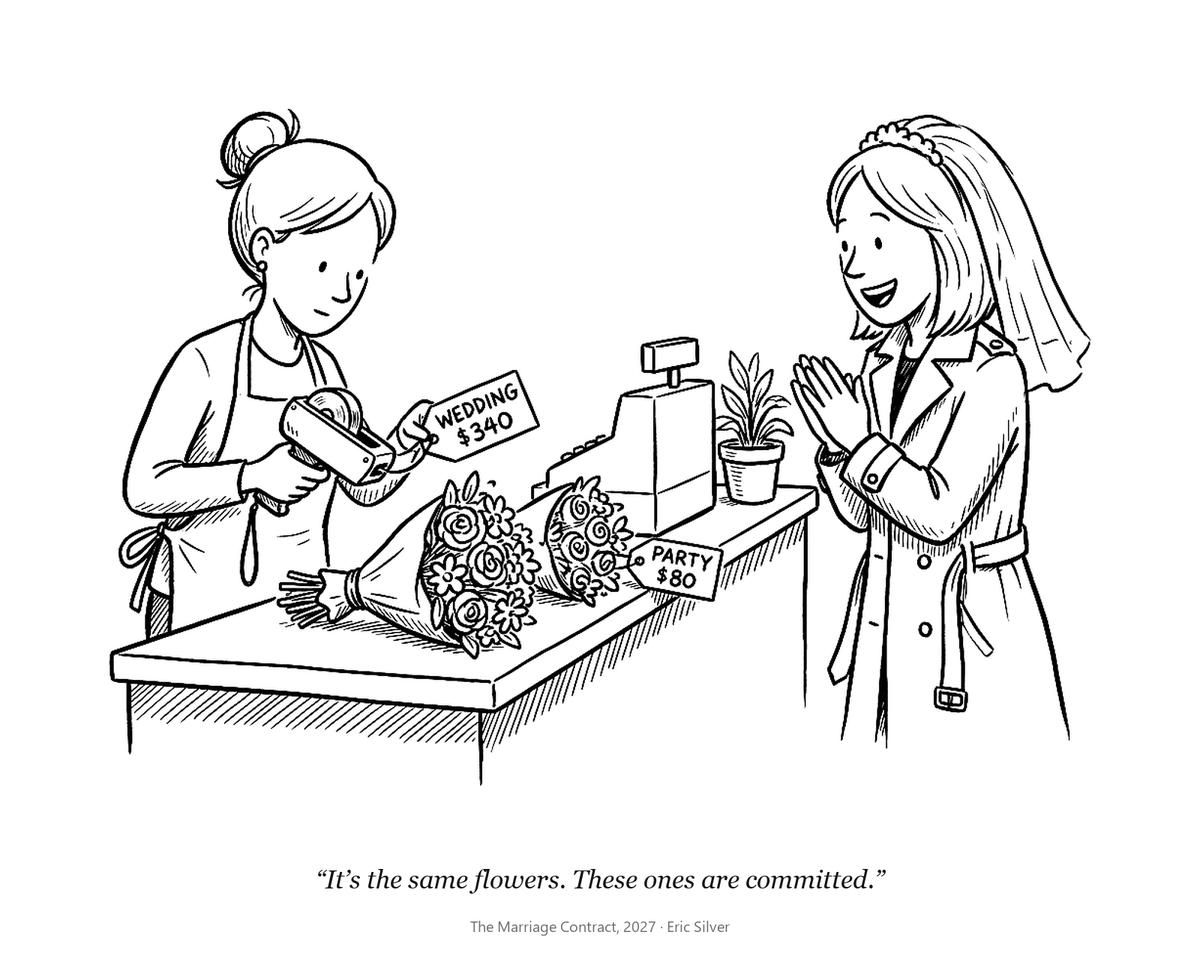
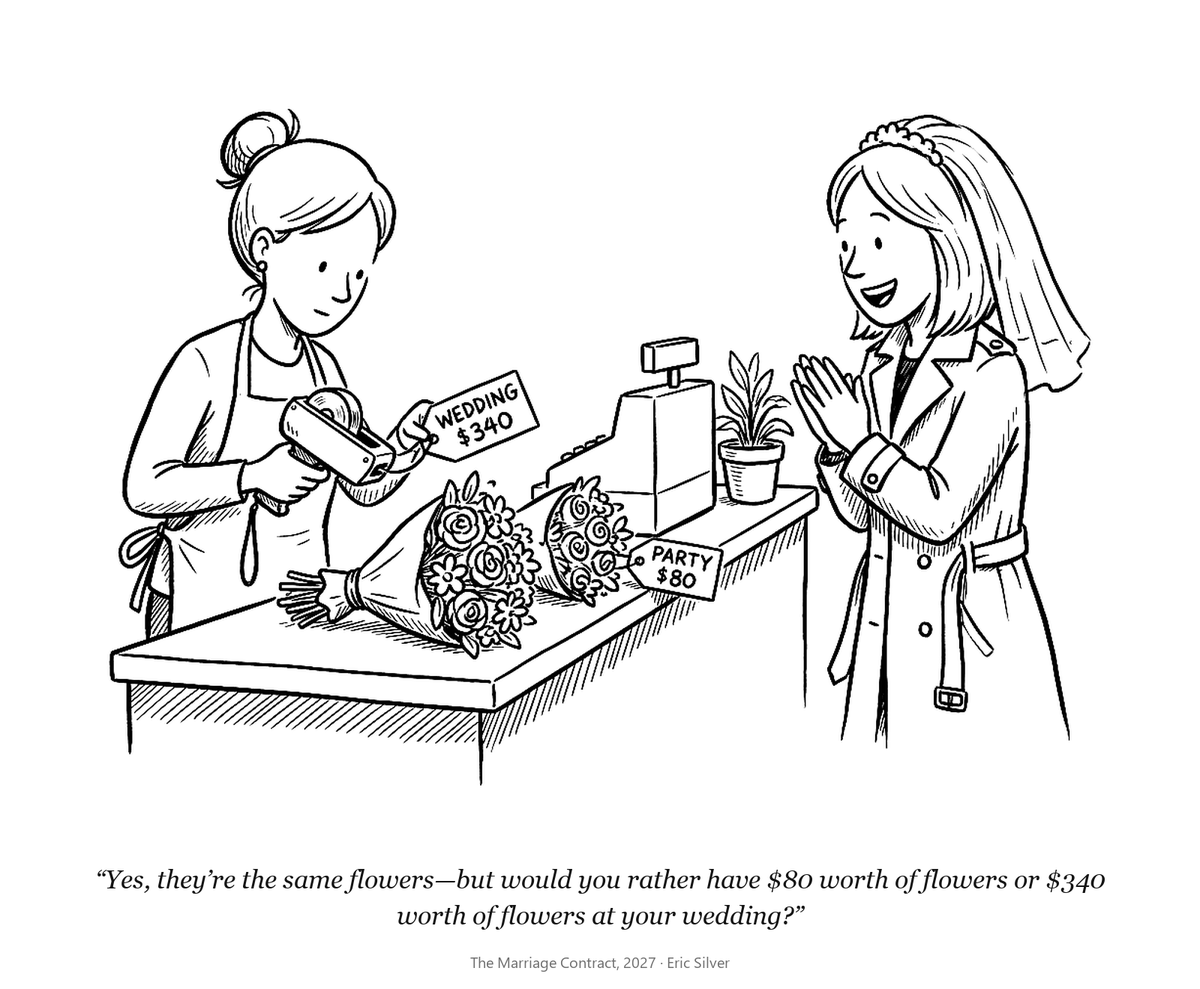
Price-gun cartoon: new caption

Changed region(s): [[0.0925, 0.0913, 0.925, 0.7912], [0.0925, 0.8825, 0.925, 0.9433]]

diff --git a/cartoons/index.html b/cartoons/index.html
@@ -34,7 +34,7 @@
 <main id="main">
 <header class="page-head on-navy"><div class="fine" aria-hidden="true"></div><div class="container page-head__in"><div class="page-head__text"><h1>The cartoons</h1><p class="sub">Every cartoon in <em>The Marriage Contract, 2027</em></p></div></div></header><div class="container page-grid"><div class="page-body">
 <p>The book has a cartoon in nearly every chapter, because the law of marriage is stranger than most people expect. Click one to see it full size, with the chapter it comes from.</p>
-<div class="tiles"><a class="tile" href="ch01-forklift.html"><img src="../assets/cartoons/ch01-forklift-thumb.png" alt="At a county clerk&#x27;s counter, two beaming people sign one sheet of paper. Behind them, where nobody&#x27;s looking, a forklift sets down a pallet of law books stamped Rest of Agreement." loading="lazy"><span>“Sign here. The rest will be along shortly.”</span></a><a class="tile" href="ch02-pricegun.html"><img src="../assets/cartoons/ch02-pricegun-thumb.png" alt="Two identical bouquets lie on a florist&#x27;s counter. One already has a tag: Party, eighty dollars. The florist is using a price gun to make the other&#x27;s tag: Wedding, three hundred and forty dollars. A customer in a veil looks delighted." loading="lazy"><span>“It’s the same flowers. These ones are committed.”</span></a><a class="tile" href="ch02-smokedetector.html"><img src="../assets/cartoons/ch02-smokedetector-thumb.png" alt="On a stepladder in the living room, one spouse is putting up a smoke detector. The other spouse stands below, arms folded, looking hurt." loading="lazy"><span>“So you’ve been thinking about burning the house down.”</span></a><a class="tile" href="ch03-wheel.html"><img src="../assets/cartoons/ch03-wheel-thumb.png" alt="In a courtroom, a robed judge gives a big spin to a game-show wheel. Its wedges say fifty-fifty, sixty-forty, seventy-thirty, whatever feels right, and lunch first. Two nervous spouses and their lawyers watch." loading="lazy"><span>“The court has carefully weighed all eleven statutory factors.”</span></a><a class="tile" href="ch04-hotel.html"><img src="../assets/cartoons/ch04-hotel-thumb.png" alt="A 1930s hotel room. A bored blonde woman and a man in an undershirt play cards on the bed. In the open doorway a photographer and a detective wait politely, one of them looking at a pocket watch." loading="lazy"><span>“We’re a little early. Should we come back and be shocked at nine?”</span></a><a class="tile" href="ch05-dog.html"><img src="../assets/cartoons/ch05-dog-thumb.png" alt="An outdoor wedding with a glowing couple at the altar. Their officiant is a golden retriever in a clerical collar, seated behind an open book. One guest leans over to whisper to another." loading="lazy"><span>“By the powers vested in me by cheap-officiant-certs.com, I now pronounce you man and wife.”</span></a><a class="tile" href="ch06-rewards.html"><img src="../assets/cartoons/ch06-rewards-thumb.png" alt="A slick brochure in the style of an airline loyalty program, titled Marriage Rewards. It lists Silver at nine months, with survivor benefits; Gold at one year, with half their Social Security; and Platinum at ten years, which you keep even after you cancel. Its small print mentions blackout dates and terms that may change without notice, and says to see Article 13." loading="lazy"><span>“Members enjoy priority boarding at the emergency room.”</span></a><a class="tile" href="ch07-registry.html"><img src="../assets/cartoons/ch07-registry-thumb.png" alt="Two counters in a department store. At Wedding Registry, a happy couple scan a toaster, each pushing a separate cart marked His or Hers. Next door, nobody&#x27;s at Divorce Registry except a robed judge holding one long scroll." loading="lazy"><span>“Over here, it all goes on one list.”</span></a><a class="tile" href="ch08-vows.html"><img src="../assets/cartoons/ch08-vows-thumb.png" alt="In a church, an officiant reads vows to a couple. A person in the third pew, wearing a lanyard and a hospital billing polo shirt, writes careful notes on a clipboard." loading="lazy"><span>“… in sickness and in health…” “Could you repeat that last part? For our records.”</span></a><a class="tile" href="ch09-will.html"><img src="../assets/cartoons/ch09-will-thumb.png" alt="Relatives in black sit in a half circle in a lawyer&#x27;s wood-paneled office as the lawyer reads a will. The widow, at one end, looks calm and holds a thin booklet marked Probate Code." loading="lazy"><span>“And to my beloved wife, I leave… whatever the statute was going to give her anyway.”</span></a><a class="tile" href="ch10-funeral.html"><img src="../assets/cartoons/ch10-funeral-thumb.png" alt="Mourners in black stand in a line at a graveside. At the end stands a woman no one knows, wearing a 1990s prom dress and corsage and happily holding a giant novelty check. The others glance at her sideways." loading="lazy"><span>“I’m so sorry for your loss. I haven’t seen him since 1994. Apparently he never updated a thing.”</span></a><a class="tile" href="ch11-saw.html"><img src="../assets/cartoons/ch11-saw-thumb.png" alt="In a living room, a couple have put labels on everything: Mine on a guitar, Mine, not property on a framed diploma, and, through the window, Ask a judge on the house. They&#x27;re calmly cutting the sofa in two with a two-person saw, right through its Ours label. A worried dog wears a sign saying See Chapter 18." loading="lazy"><span>Chapter 11</span></a><a class="tile" href="ch12-inkdrop.html"><img src="../assets/cartoons/ch12-inkdrop-thumb.png" alt="A backyard pool is labeled Joint Account. Above it, a hand squeezes one drop of ink from an eyedropper labeled Inheritance, and the ink is spreading through the water. At the edge, a forensic accountant in a suit and snorkel holds a very small net." loading="lazy"><span>“Don’t worry. We’ll trace it.”</span></a><a class="tile" href="ch13-witness.html"><img src="../assets/cartoons/ch13-witness-thumb.png" alt="In a witness box, a silver-haired CEO in a costly suit raises his hand for the oath. An easel behind him shows his company&#x27;s value shooting almost straight up. He waves at it helplessly." loading="lazy"><span>“Honestly, Your Honor, I mostly just watched.”</span></a><a class="tile" href="ch14-saw.html"><img src="../assets/cartoons/ch14-saw-thumb.png" alt="A detailed dollhouse of a suburban home sits in front of the bench. A robed judge stands above it with a two-handed lumber saw resting at the roofline, and two spouses hold on to opposite ends of the tiny house." loading="lazy"><span>“King Solomon only had to threaten it.”</span></a><a class="tile" href="ch15-oats.html"><img src="../assets/cartoons/ch15-oats-thumb.png" alt="Looking pained, a man writes a check at his kitchen table. It&#x27;s blank but for one word on the bottom line: oats. Out the window, far off in a field, a horse lies dead on its back with its legs in the air." loading="lazy"><span>“Every month. For a horse that isn’t even mine anymore.”</span></a><a class="tile" href="ch16-hedge.html"><img src="../assets/cartoons/ch16-hedge-thumb.png" alt="Nighttime. Behind a suburban hedge, a private investigator in a trench coat points a long-lens camera at a lit window. In the living room, a man and a woman, fully clothed, are playing a board game. Another investigator, holding a thermos, looks at a watch." loading="lazy"><span>“Four hours. She’s up sixty points and nobody’s taken off so much as a cardigan.”</span></a><a class="tile" href="ch17-calendar.html"><img src="../assets/cartoons/ch17-calendar-thumb.png" alt="A giant calendar fills a kitchen wall, thick with arrows, initials, swaps and footnotes. From separate doorways, two parents study it like air-traffic controllers. A child at the table eats cereal, not bothered at all." loading="lazy"><span>“So I have her alternate Thursdays unless it’s a month with five weekends, in which case you owe me a Tuesday from March.”</span></a><a class="tile" href="ch18-dog.html"><img src="../assets/cartoons/ch18-dog-thumb.png" alt="A golden retriever sits up in a witness box with its tongue hanging out. One lawyer hides a squeaky toy behind his back. The other has bacon sticking out of her jacket pocket. The judge looks down over the bench." loading="lazy"><span>“Let the record reflect that the witness went to the one with the bacon.”</span></a><a class="tile" href="ch19-frames.html"><img src="../assets/cartoons/ch19-frames-thumb.png" alt="Over a sofa hang two matching frames. The left one holds a large, ornate, illuminated document labeled Ketubah. The right one is empty, with a little brass plaque saying State&#x27;s version, pending. A couple on the sofa look up at them." loading="lazy"><span>“We keep meaning to find out what goes in the other one.”</span></a><a class="tile" href="ch20-sliding.html"><img src="../assets/cartoons/ch20-sliding-thumb.png" alt="Surrounded by half-unpacked boxes, a young couple sit on a big new sectional sofa. A puppy chews on a box where His stuff has been crossed out and replaced with Our stuff. A lease with two signatures hangs framed on the wall." loading="lazy"><span>“We’re not making any big decisions right now. We just got a dog, a lease, and a sectional.”</span></a><a class="tile" href="ch21-photo.html"><img src="../assets/cartoons/ch21-photo-thumb.png" alt="On church steps, a photographer poses a huge, mismatched group: a beaming older bride and groom in the middle, adult children from both families eyeing each other, grandchildren of all sizes, two ex-spouses at the edges, and a briefcase-carrying lawyer at each end of the back row." loading="lazy"><span>“Bride’s side on the left, groom’s side on the right, and counsel in the back, please.”</span></a><a class="tile" href="ch22-stateline.html"><img src="../assets/cartoons/ch22-stateline-thumb.png" alt="At a state line, a moving van has stopped at something like a toll booth, under a sign saying Welcome to Texas. A uniformed clerk passes a thick ring binder to the couple in the cab and reaches out for the equally thick binder the driver is giving up." loading="lazy"><span>“Old contract, please. Here’s your new one. No, you can’t read it first.”</span></a><a class="tile" href="ch23-customs.html"><img src="../assets/cartoons/ch23-customs-thumb.png" alt="In an airport customs hall, a married couple with luggage carts wait at a desk under a sign asking Anything to declare? An officer dangles their thick ring binder by one corner, as if it were a suspect fish, and squints at it over his glasses. Another officer is rubber-stamping a different binder." loading="lazy"><span>“It’s a marriage contract, sir. We were told it was valid in all fifty states.”</span></a><a class="tile" href="ch24-oneline.html"><img src="../assets/cartoons/ch24-oneline-thumb.png" alt="A bearded man in a suit and four women in plain dresses stand at a county clerk&#x27;s counter. The clerk holds up a marriage license form. It has one line, marked Spouse." loading="lazy"><span>“We have the one line. For the others you’ll have to see a higher authority.”</span></a><a class="tile" href="ch24-zoom.html"><img src="../assets/cartoons/ch24-zoom-thumb.png" alt="From behind, we see a bride and groom in wedding clothes on a sofa, facing a laptop. A county clerk on the screen, with an American flag at his back, reads the ceremony. In the little self-view box, the couple show up as blocky 8-bit figures." loading="lazy"><span>“By the power vested in me by Utah County, I now pronounce your pixels married.”</span></a><a class="tile" href="ch25-shadow.html"><img src="../assets/cartoons/ch25-shadow-thumb.png" alt="Two spouses face each other across a table in a plain conference room, each with a lawyer and papers. A huge shadow of a robed judge with a gavel falls on the wall behind them, though no judge is present. None of them looks at it." loading="lazy"><span>“Shall we begin? It’s just the four of us.”</span></a><a class="tile" href="ch26-piecharts.html"><img src="../assets/cartoons/ch26-piecharts-thumb.png" alt="In a mediator&#x27;s office, two spouses at a small table each hold up a big pie chart on a board. Both are titled Fair, and on each one a slice of about seventy percent points at the person holding it. The tired mediator between them rests their head on one hand." loading="lazy"><span>“Well, the good news is you agree on the label.”</span></a><a class="tile" href="ch27-boat.html"><img src="../assets/cartoons/ch27-boat-thumb.png" alt="In a courtroom, a man in a purposely shabby cardigan pulls out his empty trouser pockets for the judge and looks mournful. Out the window behind him, easy to see in the parking lot, a shiny motor yacht sits on a trailer hooked to his car. Its stern says Liquid Assets." loading="lazy"><span>“As Your Honor can see, I’m barely staying afloat.”</span></a><a class="tile" href="ch28-meter.html"><img src="../assets/cartoons/ch28-meter-thumb.png" alt="In a lawyer&#x27;s office, a client in mid-sentence waves a thick stack of printed text messages. On the desk, turned toward the client, an old mechanical taxi meter runs, the numbers climbing. The lawyer listens kindly." loading="lazy"><span>“Take all the time you need.”</span></a><a class="tile" href="ch28-birthday.html"><img src="../assets/cartoons/ch28-birthday-thumb.png" alt="Breakfast in a kitchen. Coffee mug in hand, a husband leans toward his wife, smiling hopefully. She answers calmly, eyes on her tablet. A wrapped gift waits on the counter behind them." loading="lazy"><span>“What do you want for your birthday?” “A divorce.” “I wasn’t looking to spend that much.”</span></a><a class="tile" href="ch29-parachute.html"><img src="../assets/cartoons/ch29-parachute-thumb.png" alt="Two skydivers in wedding clothes, falling. The groom in his tuxedo is frantically packing a parachute into a backpack labeled Prenup. The bride, veil streaming up, holds a pen and calmly reads a page flapping in the wind. The ground is a long way down." loading="lazy"><span>“I just need you to initial page four before we land.”</span></a><a class="tile" href="ch30-scroll.html"><img src="../assets/cartoons/ch30-scroll-thumb.png" alt="A lawyer at a desk holds one end of a ridiculously long scroll that runs over the desk, onto the floor and across the office. An engaged couple sit politely in two chairs. At the scroll&#x27;s far end, a small dog is sitting on the last bit of paper, with a collar tag that says The dog." loading="lazy"><span>“Sections one through forty are boilerplate. He’s sitting on the only clause you two are going to fight about.”</span></a><a class="tile" href="ch31-menu.html"><img src="../assets/cartoons/ch31-menu-thumb.png" alt="At a restaurant table, a couple look over a huge menu as a waiter in a bow tie waits with a notepad. In large hand lettering, the menu offers The Generous, The No-Surprises and The Kids First. At the bottom, No substitutions has the word No crossed out." loading="lazy"><span>“And what is the default?” “The chef decides, sir. You find out when the bill comes.”</span></a><a class="tile" href="ch32-moments.html"><img src="../assets/cartoons/ch32-moments-thumb.png" alt="A wedding reception. At the microphone, the groom raises a champagne glass in one hand for his toast. His other hand holds a thick stapled document out to the bride, who is frozen at the head table with a pen in her hand. Guests stare under a banner saying Just married." loading="lazy"><span>“… and while I have everyone’s attention.”</span></a><a class="tile" href="ch33-menu-board.html"><img src="../assets/cartoons/ch33-menu-board-thumb.png" alt="A county clerk&#x27;s office done up as a coffee shop. A cheerful clerk in an apron is ready for an engaged couple&#x27;s order as they study a big chalkboard behind the counter, titled Today&#x27;s regimes. It lists The Default, Fifty-Fifty, and Yours and Mine." loading="lazy"><span>“And would you like to see the terms with that?”</span></a><a class="tile" href="ch34-surprise.html"><img src="../assets/cartoons/ch34-surprise-thumb.png" alt="A surprise party. Still in their coats, a couple stand stunned in their doorway as friends jump up cheering from behind the sofa. A smiling lawyer holds out a tall stack of law books tied with gift ribbon." loading="lazy"><span>“Surprise! You agreed to all of this.”</span></a><a class="tile" href="ch35-cooler.html"><img src="../assets/cartoons/ch35-cooler-thumb.png" alt="In a courtroom, a lawyer in a suit calmly addresses the bench with one hand on a small picnic-style medical cooler labeled Human organ. The client beside him, in surgical scrubs, nods hard. The judge looks at him over her glasses with no expression." loading="lazy"><span>“We’ve brought a cooler, Your Honor, in the event the court rules from the bench.”</span></a><a class="tile" href="ch36-fridge.html"><img src="../assets/cartoons/ch36-fridge-thumb.png" alt="A magnet holds a handwritten list to a refrigerator door. It&#x27;s headed This weekend, with ten empty checkboxes. Only the first line is filled in and checked: check the forms. Two people with coffee mugs stand looking at it, the way people look at a gym membership." loading="lazy"><span>“Item one takes fifteen minutes. We’ve been meaning to get to it for nineteen years.”</span></a></div>
+<div class="tiles"><a class="tile" href="ch01-forklift.html"><img src="../assets/cartoons/ch01-forklift-thumb.png" alt="At a county clerk&#x27;s counter, two beaming people sign one sheet of paper. Behind them, where nobody&#x27;s looking, a forklift sets down a pallet of law books stamped Rest of Agreement." loading="lazy"><span>“Sign here. The rest will be along shortly.”</span></a><a class="tile" href="ch02-pricegun.html"><img src="../assets/cartoons/ch02-pricegun-thumb.png" alt="Two identical bouquets lie on a florist&#x27;s counter. One already has a tag: Party, eighty dollars. The florist is using a price gun to make the other&#x27;s tag: Wedding, three hundred and forty dollars. A customer in a veil looks delighted." loading="lazy"><span>“Yes, they’re the same flowers—but would you rather have $80 worth of flowers or $340 worth of flowers at your wedding?”</span></a><a class="tile" href="ch02-smokedetector.html"><img src="../assets/cartoons/ch02-smokedetector-thumb.png" alt="On a stepladder in the living room, one spouse is putting up a smoke detector. The other spouse stands below, arms folded, looking hurt." loading="lazy"><span>“So you’ve been thinking about burning the house down.”</span></a><a class="tile" href="ch03-wheel.html"><img src="../assets/cartoons/ch03-wheel-thumb.png" alt="In a courtroom, a robed judge gives a big spin to a game-show wheel. Its wedges say fifty-fifty, sixty-forty, seventy-thirty, whatever feels right, and lunch first. Two nervous spouses and their lawyers watch." loading="lazy"><span>“The court has carefully weighed all eleven statutory factors.”</span></a><a class="tile" href="ch04-hotel.html"><img src="../assets/cartoons/ch04-hotel-thumb.png" alt="A 1930s hotel room. A bored blonde woman and a man in an undershirt play cards on the bed. In the open doorway a photographer and a detective wait politely, one of them looking at a pocket watch." loading="lazy"><span>“We’re a little early. Should we come back and be shocked at nine?”</span></a><a class="tile" href="ch05-dog.html"><img src="../assets/cartoons/ch05-dog-thumb.png" alt="An outdoor wedding with a glowing couple at the altar. Their officiant is a golden retriever in a clerical collar, seated behind an open book. One guest leans over to whisper to another." loading="lazy"><span>“By the powers vested in me by cheap-officiant-certs.com, I now pronounce you man and wife.”</span></a><a class="tile" href="ch06-rewards.html"><img src="../assets/cartoons/ch06-rewards-thumb.png" alt="A slick brochure in the style of an airline loyalty program, titled Marriage Rewards. It lists Silver at nine months, with survivor benefits; Gold at one year, with half their Social Security; and Platinum at ten years, which you keep even after you cancel. Its small print mentions blackout dates and terms that may change without notice, and says to see Article 13." loading="lazy"><span>“Members enjoy priority boarding at the emergency room.”</span></a><a class="tile" href="ch07-registry.html"><img src="../assets/cartoons/ch07-registry-thumb.png" alt="Two counters in a department store. At Wedding Registry, a happy couple scan a toaster, each pushing a separate cart marked His or Hers. Next door, nobody&#x27;s at Divorce Registry except a robed judge holding one long scroll." loading="lazy"><span>“Over here, it all goes on one list.”</span></a><a class="tile" href="ch08-vows.html"><img src="../assets/cartoons/ch08-vows-thumb.png" alt="In a church, an officiant reads vows to a couple. A person in the third pew, wearing a lanyard and a hospital billing polo shirt, writes careful notes on a clipboard." loading="lazy"><span>“… in sickness and in health…” “Could you repeat that last part? For our records.”</span></a><a class="tile" href="ch09-will.html"><img src="../assets/cartoons/ch09-will-thumb.png" alt="Relatives in black sit in a half circle in a lawyer&#x27;s wood-paneled office as the lawyer reads a will. The widow, at one end, looks calm and holds a thin booklet marked Probate Code." loading="lazy"><span>“And to my beloved wife, I leave… whatever the statute was going to give her anyway.”</span></a><a class="tile" href="ch10-funeral.html"><img src="../assets/cartoons/ch10-funeral-thumb.png" alt="Mourners in black stand in a line at a graveside. At the end stands a woman no one knows, wearing a 1990s prom dress and corsage and happily holding a giant novelty check. The others glance at her sideways." loading="lazy"><span>“I’m so sorry for your loss. I haven’t seen him since 1994. Apparently he never updated a thing.”</span></a><a class="tile" href="ch11-saw.html"><img src="../assets/cartoons/ch11-saw-thumb.png" alt="In a living room, a couple have put labels on everything: Mine on a guitar, Mine, not property on a framed diploma, and, through the window, Ask a judge on the house. They&#x27;re calmly cutting the sofa in two with a two-person saw, right through its Ours label. A worried dog wears a sign saying See Chapter 18." loading="lazy"><span>Chapter 11</span></a><a class="tile" href="ch12-inkdrop.html"><img src="../assets/cartoons/ch12-inkdrop-thumb.png" alt="A backyard pool is labeled Joint Account. Above it, a hand squeezes one drop of ink from an eyedropper labeled Inheritance, and the ink is spreading through the water. At the edge, a forensic accountant in a suit and snorkel holds a very small net." loading="lazy"><span>“Don’t worry. We’ll trace it.”</span></a><a class="tile" href="ch13-witness.html"><img src="../assets/cartoons/ch13-witness-thumb.png" alt="In a witness box, a silver-haired CEO in a costly suit raises his hand for the oath. An easel behind him shows his company&#x27;s value shooting almost straight up. He waves at it helplessly." loading="lazy"><span>“Honestly, Your Honor, I mostly just watched.”</span></a><a class="tile" href="ch14-saw.html"><img src="../assets/cartoons/ch14-saw-thumb.png" alt="A detailed dollhouse of a suburban home sits in front of the bench. A robed judge stands above it with a two-handed lumber saw resting at the roofline, and two spouses hold on to opposite ends of the tiny house." loading="lazy"><span>“King Solomon only had to threaten it.”</span></a><a class="tile" href="ch15-oats.html"><img src="../assets/cartoons/ch15-oats-thumb.png" alt="Looking pained, a man writes a check at his kitchen table. It&#x27;s blank but for one word on the bottom line: oats. Out the window, far off in a field, a horse lies dead on its back with its legs in the air." loading="lazy"><span>“Every month. For a horse that isn’t even mine anymore.”</span></a><a class="tile" href="ch16-hedge.html"><img src="../assets/cartoons/ch16-hedge-thumb.png" alt="Nighttime. Behind a suburban hedge, a private investigator in a trench coat points a long-lens camera at a lit window. In the living room, a man and a woman, fully clothed, are playing a board game. Another investigator, holding a thermos, looks at a watch." loading="lazy"><span>“Four hours. She’s up sixty points and nobody’s taken off so much as a cardigan.”</span></a><a class="tile" href="ch17-calendar.html"><img src="../assets/cartoons/ch17-calendar-thumb.png" alt="A giant calendar fills a kitchen wall, thick with arrows, initials, swaps and footnotes. From separate doorways, two parents study it like air-traffic controllers. A child at the table eats cereal, not bothered at all." loading="lazy"><span>“So I have her alternate Thursdays unless it’s a month with five weekends, in which case you owe me a Tuesday from March.”</span></a><a class="tile" href="ch18-dog.html"><img src="../assets/cartoons/ch18-dog-thumb.png" alt="A golden retriever sits up in a witness box with its tongue hanging out. One lawyer hides a squeaky toy behind his back. The other has bacon sticking out of her jacket pocket. The judge looks down over the bench." loading="lazy"><span>“Let the record reflect that the witness went to the one with the bacon.”</span></a><a class="tile" href="ch19-frames.html"><img src="../assets/cartoons/ch19-frames-thumb.png" alt="Over a sofa hang two matching frames. The left one holds a large, ornate, illuminated document labeled Ketubah. The right one is empty, with a little brass plaque saying State&#x27;s version, pending. A couple on the sofa look up at them." loading="lazy"><span>“We keep meaning to find out what goes in the other one.”</span></a><a class="tile" href="ch20-sliding.html"><img src="../assets/cartoons/ch20-sliding-thumb.png" alt="Surrounded by half-unpacked boxes, a young couple sit on a big new sectional sofa. A puppy chews on a box where His stuff has been crossed out and replaced with Our stuff. A lease with two signatures hangs framed on the wall." loading="lazy"><span>“We’re not making any big decisions right now. We just got a dog, a lease, and a sectional.”</span></a><a class="tile" href="ch21-photo.html"><img src="../assets/cartoons/ch21-photo-thumb.png" alt="On church steps, a photographer poses a huge, mismatched group: a beaming older bride and groom in the middle, adult children from both families eyeing each other, grandchildren of all sizes, two ex-spouses at the edges, and a briefcase-carrying lawyer at each end of the back row." loading="lazy"><span>“Bride’s side on the left, groom’s side on the right, and counsel in the back, please.”</span></a><a class="tile" href="ch22-stateline.html"><img src="../assets/cartoons/ch22-stateline-thumb.png" alt="At a state line, a moving van has stopped at something like a toll booth, under a sign saying Welcome to Texas. A uniformed clerk passes a thick ring binder to the couple in the cab and reaches out for the equally thick binder the driver is giving up." loading="lazy"><span>“Old contract, please. Here’s your new one. No, you can’t read it first.”</span></a><a class="tile" href="ch23-customs.html"><img src="../assets/cartoons/ch23-customs-thumb.png" alt="In an airport customs hall, a married couple with luggage carts wait at a desk under a sign asking Anything to declare? An officer dangles their thick ring binder by one corner, as if it were a suspect fish, and squints at it over his glasses. Another officer is rubber-stamping a different binder." loading="lazy"><span>“It’s a marriage contract, sir. We were told it was valid in all fifty states.”</span></a><a class="tile" href="ch24-oneline.html"><img src="../assets/cartoons/ch24-oneline-thumb.png" alt="A bearded man in a suit and four women in plain dresses stand at a county clerk&#x27;s counter. The clerk holds up a marriage license form. It has one line, marked Spouse." loading="lazy"><span>“We have the one line. For the others you’ll have to see a higher authority.”</span></a><a class="tile" href="ch24-zoom.html"><img src="../assets/cartoons/ch24-zoom-thumb.png" alt="From behind, we see a bride and groom in wedding clothes on a sofa, facing a laptop. A county clerk on the screen, with an American flag at his back, reads the ceremony. In the little self-view box, the couple show up as blocky 8-bit figures." loading="lazy"><span>“By the power vested in me by Utah County, I now pronounce your pixels married.”</span></a><a class="tile" href="ch25-shadow.html"><img src="../assets/cartoons/ch25-shadow-thumb.png" alt="Two spouses face each other across a table in a plain conference room, each with a lawyer and papers. A huge shadow of a robed judge with a gavel falls on the wall behind them, though no judge is present. None of them looks at it." loading="lazy"><span>“Shall we begin? It’s just the four of us.”</span></a><a class="tile" href="ch26-piecharts.html"><img src="../assets/cartoons/ch26-piecharts-thumb.png" alt="In a mediator&#x27;s office, two spouses at a small table each hold up a big pie chart on a board. Both are titled Fair, and on each one a slice of about seventy percent points at the person holding it. The tired mediator between them rests their head on one hand." loading="lazy"><span>“Well, the good news is you agree on the label.”</span></a><a class="tile" href="ch27-boat.html"><img src="../assets/cartoons/ch27-boat-thumb.png" alt="In a courtroom, a man in a purposely shabby cardigan pulls out his empty trouser pockets for the judge and looks mournful. Out the window behind him, easy to see in the parking lot, a shiny motor yacht sits on a trailer hooked to his car. Its stern says Liquid Assets." loading="lazy"><span>“As Your Honor can see, I’m barely staying afloat.”</span></a><a class="tile" href="ch28-meter.html"><img src="../assets/cartoons/ch28-meter-thumb.png" alt="In a lawyer&#x27;s office, a client in mid-sentence waves a thick stack of printed text messages. On the desk, turned toward the client, an old mechanical taxi meter runs, the numbers climbing. The lawyer listens kindly." loading="lazy"><span>“Take all the time you need.”</span></a><a class="tile" href="ch28-birthday.html"><img src="../assets/cartoons/ch28-birthday-thumb.png" alt="Breakfast in a kitchen. Coffee mug in hand, a husband leans toward his wife, smiling hopefully. She answers calmly, eyes on her tablet. A wrapped gift waits on the counter behind them." loading="lazy"><span>“What do you want for your birthday?” “A divorce.” “I wasn’t looking to spend that much.”</span></a><a class="tile" href="ch29-parachute.html"><img src="../assets/cartoons/ch29-parachute-thumb.png" alt="Two skydivers in wedding clothes, falling. The groom in his tuxedo is frantically packing a parachute into a backpack labeled Prenup. The bride, veil streaming up, holds a pen and calmly reads a page flapping in the wind. The ground is a long way down." loading="lazy"><span>“I just need you to initial page four before we land.”</span></a><a class="tile" href="ch30-scroll.html"><img src="../assets/cartoons/ch30-scroll-thumb.png" alt="A lawyer at a desk holds one end of a ridiculously long scroll that runs over the desk, onto the floor and across the office. An engaged couple sit politely in two chairs. At the scroll&#x27;s far end, a small dog is sitting on the last bit of paper, with a collar tag that says The dog." loading="lazy"><span>“Sections one through forty are boilerplate. He’s sitting on the only clause you two are going to fight about.”</span></a><a class="tile" href="ch31-menu.html"><img src="../assets/cartoons/ch31-menu-thumb.png" alt="At a restaurant table, a couple look over a huge menu as a waiter in a bow tie waits with a notepad. In large hand lettering, the menu offers The Generous, The No-Surprises and The Kids First. At the bottom, No substitutions has the word No crossed out." loading="lazy"><span>“And what is the default?” “The chef decides, sir. You find out when the bill comes.”</span></a><a class="tile" href="ch32-moments.html"><img src="../assets/cartoons/ch32-moments-thumb.png" alt="A wedding reception. At the microphone, the groom raises a champagne glass in one hand for his toast. His other hand holds a thick stapled document out to the bride, who is frozen at the head table with a pen in her hand. Guests stare under a banner saying Just married." loading="lazy"><span>“… and while I have everyone’s attention.”</span></a><a class="tile" href="ch33-menu-board.html"><img src="../assets/cartoons/ch33-menu-board-thumb.png" alt="A county clerk&#x27;s office done up as a coffee shop. A cheerful clerk in an apron is ready for an engaged couple&#x27;s order as they study a big chalkboard behind the counter, titled Today&#x27;s regimes. It lists The Default, Fifty-Fifty, and Yours and Mine." loading="lazy"><span>“And would you like to see the terms with that?”</span></a><a class="tile" href="ch34-surprise.html"><img src="../assets/cartoons/ch34-surprise-thumb.png" alt="A surprise party. Still in their coats, a couple stand stunned in their doorway as friends jump up cheering from behind the sofa. A smiling lawyer holds out a tall stack of law books tied with gift ribbon." loading="lazy"><span>“Surprise! You agreed to all of this.”</span></a><a class="tile" href="ch35-cooler.html"><img src="../assets/cartoons/ch35-cooler-thumb.png" alt="In a courtroom, a lawyer in a suit calmly addresses the bench with one hand on a small picnic-style medical cooler labeled Human organ. The client beside him, in surgical scrubs, nods hard. The judge looks at him over her glasses with no expression." loading="lazy"><span>“We’ve brought a cooler, Your Honor, in the event the court rules from the bench.”</span></a><a class="tile" href="ch36-fridge.html"><img src="../assets/cartoons/ch36-fridge-thumb.png" alt="A magnet holds a handwritten list to a refrigerator door. It&#x27;s headed This weekend, with ten empty checkboxes. Only the first line is filled in and checked: check the forms. Two people with coffee mugs stand looking at it, the way people look at a gym membership." loading="lazy"><span>“Item one takes fifteen minutes. We’ve been meaning to get to it for nineteen years.”</span></a></div>
 </div><aside class="page-aside" aria-label="The book"><a href="../index.html"><img src="../img/cover.jpg" width="760" height="937" loading="lazy" alt="Cover of The Marriage Contract, 2027 by Eric Silver"></a><a class="btn btn--amazon" href="https://www.amazon.com/dp/B0HKTR4MDW">Buy it on Amazon</a></aside></div>
 </main>
 <footer class="close on-navy">

diff --git a/index.html b/index.html
@@ -316,7 +316,7 @@
     <h2>Ten terms in it that surprise almost everyone</h2>
     <ol class="tenlist"><li><span>Your spouse doesn’t own your paycheck, until someone files</span></li><li><span>Moving changes your contract</span></li><li><span>Lawmakers can change the terms, and the change reaches you</span></li><li><span>Your spouse’s hospital bill may land on you</span></li><li><span>A joint tax return puts you on the hook for every dollar</span></li><li><span>A beneficiary form overrides both your will and your divorce decree</span></li><li><span>No prenup can give up 401(k) rights</span></li><li><span>Put an inheritance in a joint account and it probably stops being yours</span></li><li><span>Your will can leave your children nothing, but your spouse can still claim a share</span></li><li><span>The biggest terms come down to one person’s opinion</span></li></ol>
     <p class="band__note">That’s Chapter 34. The other thirty-five explain where each of those came from and what you can do about it.</p>
-    <div class="rail" tabindex="0" role="group" aria-label="Cartoons from the book"><a href="cartoons/ch02-pricegun.html"><img src="assets/cartoons/ch02-pricegun-thumb.png" alt="Two identical bouquets lie on a florist&#x27;s counter. One already has a tag: Party, eighty dollars. The florist is using a price gun to make the other&#x27;s tag: Wedding, three hundred and forty dollars. A customer in a veil looks delighted." loading="lazy" width="400" height="300">“It’s the same flowers. These ones are committed.”</a><a href="cartoons/ch02-smokedetector.html"><img src="assets/cartoons/ch02-smokedetector-thumb.png" alt="On a stepladder in the living room, one spouse is putting up a smoke detector. The other spouse stands below, arms folded, looking hurt." loading="lazy" width="400" height="300">“So you’ve been thinking about burning the house down.”</a><a href="cartoons/ch03-wheel.html"><img src="assets/cartoons/ch03-wheel-thumb.png" alt="In a courtroom, a robed judge gives a big spin to a game-show wheel. Its wedges say fifty-fifty, sixty-forty, seventy-thirty, whatever feels right, and lunch first. Two nervous spouses and their lawyers watch." loading="lazy" width="400" height="300">“The court has carefully weighed all eleven statutory factors.”</a><a href="cartoons/ch04-hotel.html"><img src="assets/cartoons/ch04-hotel-thumb.png" alt="A 1930s hotel room. A bored blonde woman and a man in an undershirt play cards on the bed. In the open doorway a photographer and a detective wait politely, one of them looking at a pocket watch." loading="lazy" width="400" height="300">“We’re a little early. Should we come back and be shocked at nine?”</a><a href="cartoons/ch05-dog.html"><img src="assets/cartoons/ch05-dog-thumb.png" alt="An outdoor wedding with a glowing couple at the altar. Their officiant is a golden retriever in a clerical collar, seated behind an open book. One guest leans over to whisper to another." loading="lazy" width="400" height="300">“By the powers vested in me by cheap-officiant-certs.com, I now pronounce you man and wife.”</a><a href="cartoons/ch06-rewards.html"><img src="assets/cartoons/ch06-rewards-thumb.png" alt="A slick brochure in the style of an airline loyalty program, titled Marriage Rewards. It lists Silver at nine months, with survivor benefits; Gold at one year, with half their Social Security; and Platinum at ten years, which you keep even after you cancel. Its small print mentions blackout dates and terms that may change without notice, and says to see Article 13." loading="lazy" width="400" height="300">“Members enjoy priority boarding at the emergency room.”</a><a href="cartoons/ch07-registry.html"><img src="assets/cartoons/ch07-registry-thumb.png" alt="Two counters in a department store. At Wedding Registry, a happy couple scan a toaster, each pushing a separate cart marked His or Hers. Next door, nobody&#x27;s at Divorce Registry except a robed judge holding one long scroll." loading="lazy" width="400" height="300">“Over here, it all goes on one list.”</a><a href="cartoons/ch08-vows.html"><img src="assets/cartoons/ch08-vows-thumb.png" alt="In a church, an officiant reads vows to a couple. A person in the third pew, wearing a lanyard and a hospital billing polo shirt, writes careful notes on a clipboard." loading="lazy" width="400" height="300">“… in sickness and in health…” “Could you repeat that last part? For our records.”</a><a href="cartoons/ch09-will.html"><img src="assets/cartoons/ch09-will-thumb.png" alt="Relatives in black sit in a half circle in a lawyer&#x27;s wood-paneled office as the lawyer reads a will. The widow, at one end, looks calm and holds a thin booklet marked Probate Code." loading="lazy" width="400" height="300">“And to my beloved wife, I leave… whatever the statute was going to give her anyway.”</a></div>
+    <div class="rail" tabindex="0" role="group" aria-label="Cartoons from the book"><a href="cartoons/ch02-pricegun.html"><img src="assets/cartoons/ch02-pricegun-thumb.png" alt="Two identical bouquets lie on a florist&#x27;s counter. One already has a tag: Party, eighty dollars. The florist is using a price gun to make the other&#x27;s tag: Wedding, three hundred and forty dollars. A customer in a veil looks delighted." loading="lazy" width="400" height="300">“Yes, they’re the same flowers—but would you rather have $80 worth of flowers or $340 worth of flowers at your wedding?”</a><a href="cartoons/ch02-smokedetector.html"><img src="assets/cartoons/ch02-smokedetector-thumb.png" alt="On a stepladder in the living room, one spouse is putting up a smoke detector. The other spouse stands below, arms folded, looking hurt." loading="lazy" width="400" height="300">“So you’ve been thinking about burning the house down.”</a><a href="cartoons/ch03-wheel.html"><img src="assets/cartoons/ch03-wheel-thumb.png" alt="In a courtroom, a robed judge gives a big spin to a game-show wheel. Its wedges say fifty-fifty, sixty-forty, seventy-thirty, whatever feels right, and lunch first. Two nervous spouses and their lawyers watch." loading="lazy" width="400" height="300">“The court has carefully weighed all eleven statutory factors.”</a><a href="cartoons/ch04-hotel.html"><img src="assets/cartoons/ch04-hotel-thumb.png" alt="A 1930s hotel room. A bored blonde woman and a man in an undershirt play cards on the bed. In the open doorway a photographer and a detective wait politely, one of them looking at a pocket watch." loading="lazy" width="400" height="300">“We’re a little early. Should we come back and be shocked at nine?”</a><a href="cartoons/ch05-dog.html"><img src="assets/cartoons/ch05-dog-thumb.png" alt="An outdoor wedding with a glowing couple at the altar. Their officiant is a golden retriever in a clerical collar, seated behind an open book. One guest leans over to whisper to another." loading="lazy" width="400" height="300">“By the powers vested in me by cheap-officiant-certs.com, I now pronounce you man and wife.”</a><a href="cartoons/ch06-rewards.html"><img src="assets/cartoons/ch06-rewards-thumb.png" alt="A slick brochure in the style of an airline loyalty program, titled Marriage Rewards. It lists Silver at nine months, with survivor benefits; Gold at one year, with half their Social Security; and Platinum at ten years, which you keep even after you cancel. Its small print mentions blackout dates and terms that may change without notice, and says to see Article 13." loading="lazy" width="400" height="300">“Members enjoy priority boarding at the emergency room.”</a><a href="cartoons/ch07-registry.html"><img src="assets/cartoons/ch07-registry-thumb.png" alt="Two counters in a department store. At Wedding Registry, a happy couple scan a toaster, each pushing a separate cart marked His or Hers. Next door, nobody&#x27;s at Divorce Registry except a robed judge holding one long scroll." loading="lazy" width="400" height="300">“Over here, it all goes on one list.”</a><a href="cartoons/ch08-vows.html"><img src="assets/cartoons/ch08-vows-thumb.png" alt="In a church, an officiant reads vows to a couple. A person in the third pew, wearing a lanyard and a hospital billing polo shirt, writes careful notes on a clipboard." loading="lazy" width="400" height="300">“… in sickness and in health…” “Could you repeat that last part? For our records.”</a><a href="cartoons/ch09-will.html"><img src="assets/cartoons/ch09-will-thumb.png" alt="Relatives in black sit in a half circle in a lawyer&#x27;s wood-paneled office as the lawyer reads a will. The widow, at one end, looks calm and holds a thin booklet marked Probate Code." loading="lazy" width="400" height="300">“And to my beloved wife, I leave… whatever the statute was going to give her anyway.”</a></div>
     <p class="rail__more"><a href="cartoons/index.html">All the cartoons</a></p>
   </div>
 </section>

diff --git a/cartoons/ch02-pricegun.html b/cartoons/ch02-pricegun.html
@@ -3,11 +3,11 @@
 <head>
 <meta charset="utf-8">
 <meta name="viewport" content="width=device-width, initial-scale=1">
-<title>“It’s the same flowers. These ones are committed.” | Cartoon from The Marriage Contract, 2027</title>
+<title>“Yes, they’re the same flowers—but would you rather have $80 worth of flowers or $340 worth of flowers at your wedding?” | Cartoon from The Marriage Contract, 2027</title>
 <meta name="description" content="A cartoon from Chapter 2, Why Nobody Reads It, of The Marriage Contract, 2027. Two identical bouquets lie on a florist&#x27;s counter. One already has a tag: Party, eighty dollars. The florist is using a price gun to make the other&#x27;s tag: Wedding, three hundred and forty dollars. A customer in a veil looks delighted.">
 <link rel="canonical" href="https://marriagecontract.org/cartoons/ch02-pricegun.html">
 <meta property="og:type" content="article">
-<meta property="og:title" content="“It’s the same flowers. These ones are committed.” | Cartoon from The Marriage Contract, 2027">
+<meta property="og:title" content="“Yes, they’re the same flowers—but would you rather have $80 worth of flowers or $340 worth of flowers at your wedding?” | Cartoon from The Marriage Contract, 2027">
 <meta property="og:description" content="A cartoon from Chapter 2, Why Nobody Reads It, of The Marriage Contract, 2027. Two identical bouquets lie on a florist&#x27;s counter. One already has a tag: Party, eighty dollars. The florist is using a price gun to make the other&#x27;s tag: Wedding, three hundred and forty dollars. A customer in a veil looks delighted.">
 <meta property="og:url" content="https://marriagecontract.org/cartoons/ch02-pricegun.html">
 <meta property="og:image" content="https://marriagecontract.org/assets/cartoons/ch02-pricegun-captioned.png">
@@ -36,7 +36,7 @@
 <p class="sans" style="font-size:.9rem"><a href="index.html">All cartoons</a></p>
 <figure class="cartoon">
 <img src="../assets/cartoons/ch02-pricegun.png" alt="Two identical bouquets lie on a florist&#x27;s counter. One already has a tag: Party, eighty dollars. The florist is using a price gun to make the other&#x27;s tag: Wedding, three hundred and forty dollars. A customer in a veil looks delighted." loading="eager">
-<figcaption>“It’s the same flowers. These ones are committed.”</figcaption>
+<figcaption>“Yes, they’re the same flowers—but would you rather have $80 worth of flowers or $340 worth of flowers at your wedding?”</figcaption>
 </figure>
 <p>From Chapter 2, &ldquo;Why Nobody Reads It,&rdquo; of <em>The Marriage Contract, 2027</em>, which reads the law of marriage as the prenup every married couple already has.</p>
 <p class="sans" style="font-size:.9rem">Two identical bouquets lie on a florist’s counter. One already has a tag: Party, eighty dollars. The florist is using a price gun to make the other’s tag: Wedding, three hundred and forty dollars. A customer in a veil looks delighted.</p>
